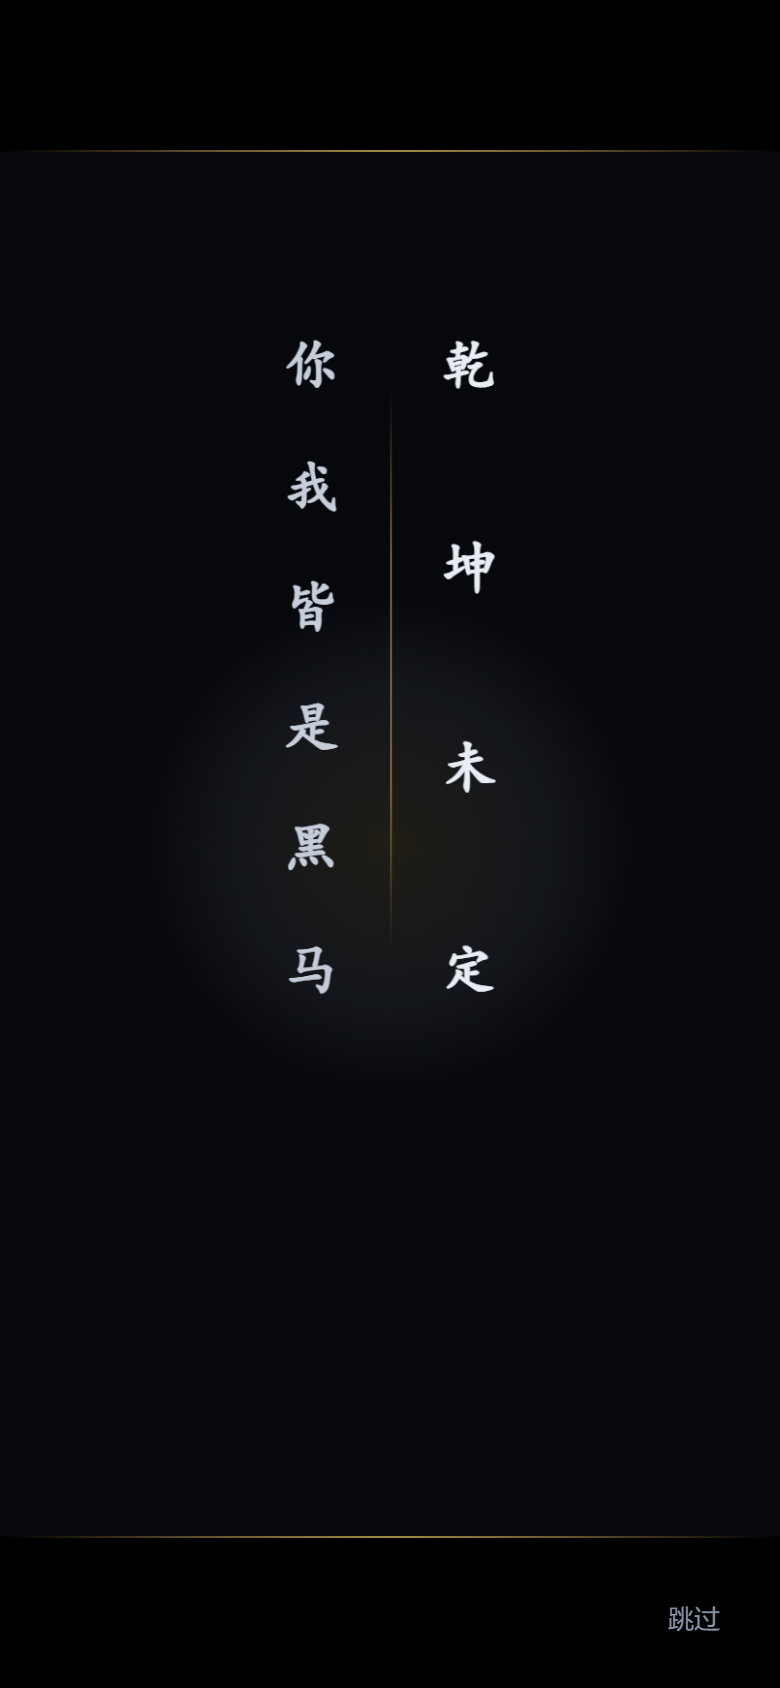
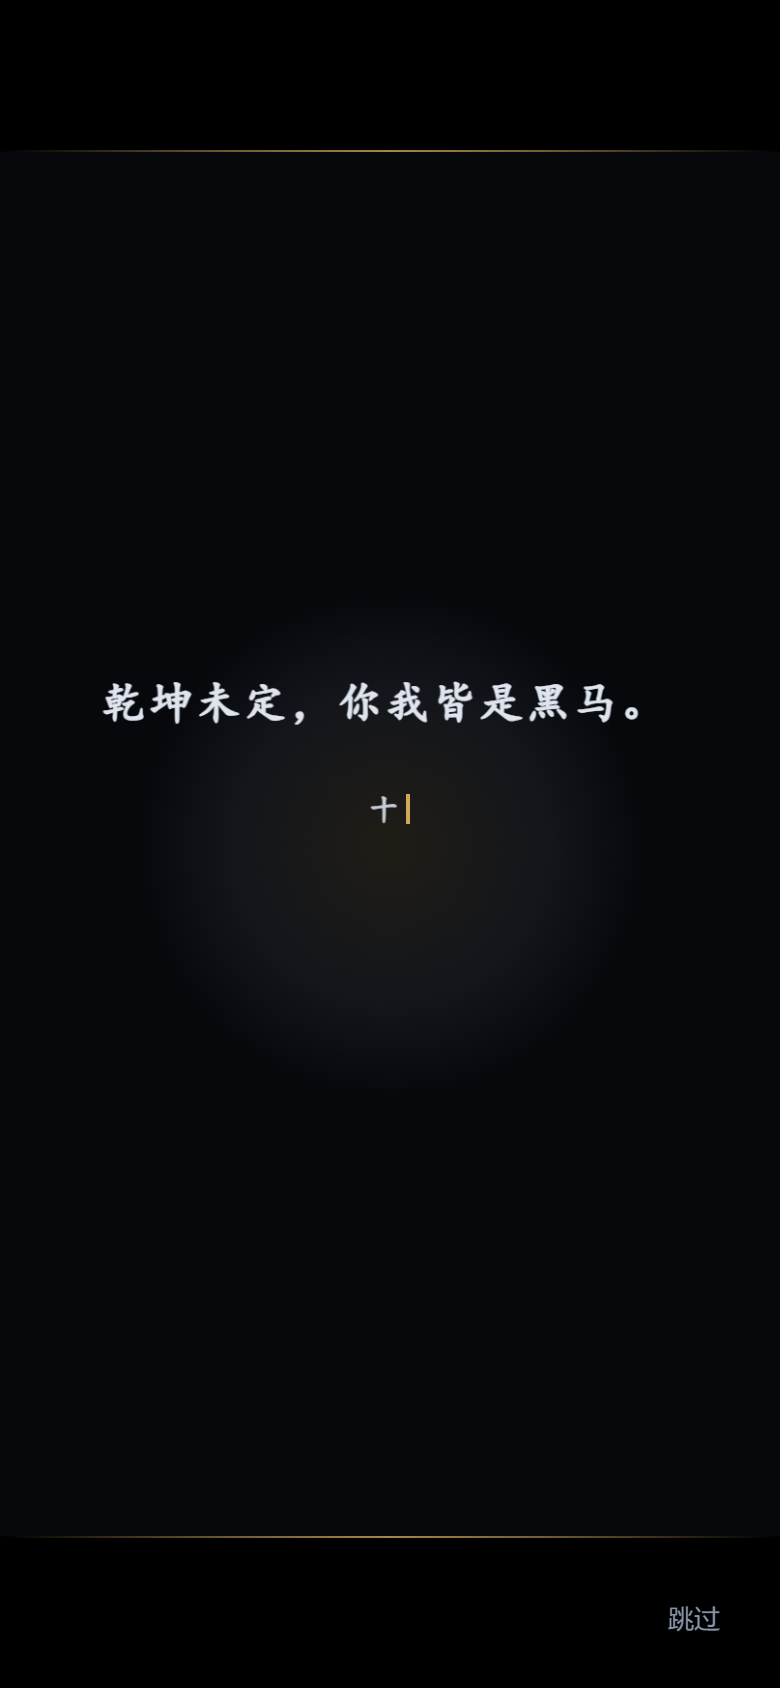
开场动画 V10：第二幕改打字机 + 实时倒计时——「乾坤未定，你我皆是黑马。」「十年磨剑，今朝试锋芒。」逐字打出（金色光标跟随），等宽数字实时倒计时（config.json fillPhase 单一事实源，250ms 刷新，开闸前/每日窗口/已开启三态感知）；铭言层挂舞台全屏居中不折行；skip/hide 统一清理定时器；E2E ≤14s（47/47）

diff --git a/index.html b/index.html
@@ -319,17 +319,24 @@ body.xj-lock{overflow:hidden}
 .xj-lb.b{bottom:0;transform-origin:50% 100%}
 .xj-lb.b::after{top:0}
 .xj-head{position:relative;display:flex;flex-direction:column;align-items:center;width:100%}
-/* 序章长句：逐行浮现（回忆向） */
-.xj-pro{position:absolute;inset:-20px 0;display:flex;flex-direction:column;align-items:center;justify-content:center;gap:clamp(13px,3.2vh,22px);pointer-events:none}
-.xj-pro p{margin:0;font-family:'Kaiti SC','STKaiti','KaiTi','Songti SC','SimSun',serif;font-size:clamp(15px,4vw,21px);font-weight:500;letter-spacing:.15em;margin-right:-.15em;color:#a7b2c3;opacity:0;transform:translateY(10px);will-change:transform,opacity}
+/* 序章长句：逐行浮现（回忆向）——挂舞台层，绝对居中于全屏 */
+.xj-pro{position:absolute;inset:0;display:flex;flex-direction:column;align-items:center;justify-content:center;gap:clamp(13px,3.2vh,22px);padding:10vh 24px;pointer-events:none}
+.xj-pro p{text-align:center;margin:0;font-family:'Kaiti SC','STKaiti','KaiTi','Songti SC','SimSun',serif;font-size:clamp(15px,4vw,21px);font-weight:500;letter-spacing:.12em;margin-right:-.12em;color:#a7b2c3;opacity:0;transform:translateY(10px);will-change:transform,opacity}
 .xj-pro p.em{color:#dfe5ee}
-.xj-motto{position:absolute;inset:-20px 0;display:flex;flex-direction:row-reverse;align-items:center;justify-content:center;gap:clamp(24px,6.5vw,44px);pointer-events:none}
-/* 对联式：两列等高、字距 space-between 均匀分布，中缝金线分隔 */
-.xj-m1,.xj-m2{display:flex;flex-direction:column;align-items:center;justify-content:space-between;height:min(46vh,340px);font-family:'Kaiti SC','STKaiti','KaiTi','Songti SC','SimSun',serif;font-weight:600}
-.xj-m1{font-size:clamp(26px,7vw,40px);color:#e8edf4}
-.xj-m2{font-size:clamp(26px,7vw,40px);color:#c6cedb}
-.xj-m1 span,.xj-m2 span{display:block;opacity:0;transform:translateY(14px);will-change:transform,opacity}
-.xj-msep{width:1px;height:min(38vh,280px);background:linear-gradient(180deg,transparent,rgba(207,169,90,.55) 30%,rgba(207,169,90,.55) 70%,transparent);opacity:0;will-change:opacity}
+.xj-motto{position:absolute;inset:0;display:flex;flex-direction:column;align-items:center;justify-content:center;gap:clamp(15px,3.4vh,26px);padding:10vh 24px;pointer-events:none}
+/* 打字机 + 实时倒计时（居中一栏式，替换原对联） */
+.xj-tw{font-family:'Kaiti SC','STKaiti','KaiTi','Songti SC','SimSun',serif;font-weight:600;color:#dfe5ee;min-height:1.45em;display:flex;align-items:center;justify-content:center;text-align:center}
+.xj-tw1{font-size:clamp(20px,5.6vw,34px);letter-spacing:.08em}
+.xj-tw2{font-size:clamp(14px,3.8vw,20px);letter-spacing:.14em;color:#c6cedb}
+.xj-tw::after{content:'';display:inline-block;width:2px;height:1.02em;background:var(--xj-gold);margin-left:.14em;opacity:0}
+.xj-tw.on::after{opacity:1;animation:xj-blink 1s steps(1) infinite}
+.xj-tw.done::after{animation:xj-blink .7s steps(1) 3 forwards}
+@keyframes xj-blink{0%,55%{opacity:1}56%,100%{opacity:0}}
+.xj-cd{display:flex;flex-direction:column;align-items:center;gap:clamp(8px,1.6vh,12px);opacity:0;transform:translateY(10px);will-change:transform,opacity}
+.xj-cd-cap{font-size:clamp(11px,2.9vw,14px);letter-spacing:.5em;margin-right:-.5em;color:var(--xj-mute)}
+.xj-cd-nums{display:flex;align-items:baseline;gap:clamp(4px,1.2vw,8px)}
+.xj-cd-nums b{font-family:'SF Mono','Menlo','Consolas','Courier New',monospace;font-variant-numeric:tabular-nums;font-size:clamp(26px,7vw,44px);font-weight:700;color:#eef1f6;letter-spacing:.02em}
+.xj-cd-nums i{font-style:normal;font-size:clamp(11px,2.8vw,14px);color:var(--xj-gold);letter-spacing:.1em}
 .xj-eyebrow{font-size:clamp(10px,2.6vw,13px);letter-spacing:.52em;margin-right:-.52em;color:var(--xj-mute);opacity:0;will-change:transform,opacity;margin-bottom:14px}
 .xj-lockup{position:relative;display:flex;flex-direction:column;align-items:center;padding:0 20px;max-width:100vw}
 .xj-title{position:relative;display:flex;justify-content:center;font-family:'Songti SC','STSong','STZhongsong','SimSun',serif;font-size:clamp(30px,8.5vw,64px);font-weight:900;line-height:1.22;letter-spacing:.14em;margin:0;opacity:0;will-change:transform,opacity}
@@ -360,19 +367,22 @@ body.xj-lock{overflow:hidden}
     <div class="xj-glow"></div>
     <div class="xj-lb t" aria-hidden="true"></div>
     <div class="xj-lb b" aria-hidden="true"></div>
+    <div class="xj-pro" aria-hidden="true">
+      <p>三年晨读，书声掠过四季的窗</p>
+      <p>千百道题，笔尖写满深夜的灯</p>
+      <p>那些熬过的夜、背过的书、流过的汗</p>
+      <p class="em">都将成为你笔下的从容</p>
+    </div>
+    <div class="xj-motto" aria-hidden="true">
+      <div class="xj-tw xj-tw1" data-text="乾坤未定，你我皆是黑马。"></div>
+      <div class="xj-tw xj-tw2" data-text="十年磨剑，今朝试锋芒。"></div>
+      <div class="xj-cd">
+        <div class="xj-cd-cap" id="xjCdCap">距 报名通道开启</div>
+        <div class="xj-cd-nums" id="xjCd"><b>--</b><i>天</i><b>--</b><i>时</i><b>--</b><i>分</i><b>--</b><i>秒</i></div>
+      </div>
+    </div>
     <div class="xj-lockup">
       <div class="xj-head">
-        <div class="xj-pro" aria-hidden="true">
-          <p>三年晨读，书声掠过四季的窗</p>
-          <p>千百道题，笔尖写满深夜的灯</p>
-          <p>那些熬过的夜、背过的书、流过的汗</p>
-          <p class="em">都将成为你笔下的从容</p>
-        </div>
-        <div class="xj-motto" aria-hidden="true">
-          <div class="xj-m1"><span>乾</span><span>坤</span><span>未</span><span>定</span></div>
-          <div class="xj-msep"></div>
-          <div class="xj-m2"><span>你</span><span>我</span><span>皆</span><span>是</span><span>黑</span><span>马</span></div>
-        </div>
         <div class="xj-eyebrow">二〇二七年 · 春季 / 夏季高考</div>
         <h1 class="xj-title" aria-label="山东高考报名助手"><span aria-hidden="true">山东高考报名助手</span></h1>
         <div class="xj-rule"><i aria-hidden="true"></i></div>
@@ -396,19 +406,79 @@ body.xj-lock{overflow:hidden}
   var glow = q('.xj-glow'), title = q('.xj-title'), rule = q('.xj-rule'), orn = q('.xj-rule i'),
       sub = q('.xj-sub'), cta = q('.xj-cta'), note = q('.xj-note'), skip = q('.xj-skip'),
       enter = q('#xjEnter'), replay = q('.xj-replay'), eyebrow = q('.xj-eyebrow'),
-      motto = q('.xj-motto'), msep = q('.xj-msep'), pro = q('.xj-pro'), lbT = q('.xj-lb.t'), lbB = q('.xj-lb.b');
+      motto = q('.xj-motto'), tw1 = q('.xj-tw1'), tw2 = q('.xj-tw2'),
+      cd = q('.xj-cd'), cdCap = q('#xjCdCap'), cdNums = q('#xjCd'),
+      pro = q('.xj-pro'), lbT = q('.xj-lb.t'), lbB = q('.xj-lb.b');
   var KEY = 'xj-splash-seen';
   var reduce = matchMedia('(prefers-reduced-motion: reduce)').matches;
   var E1 = 'cubic-bezier(.16,1,.3,1)';
+  var timers = [];        /* typewriter / countdown 句柄，skip 与 hide 时统一清理 */
+  var flushers = [];      /* skip 时立即补全文本 */
+  /* 目标时刻：config.json 单一事实源（fillPhase.start），失败回退内置值 */
+  var GATE = Date.parse('2026-10-24T09:00:00+08:00');
+  var GATE_END = Date.parse('2026-10-30T18:00:00+08:00');
+  try {
+    fetch('config.json').then(function (r) { return r.ok ? r.json() : null; }).then(function (c) {
+      if (c && c.fillPhase && c.fillPhase.start) {
+        var t = Date.parse(c.fillPhase.start);
+        if (!isNaN(t)) GATE = t;
+        if (c.fillPhase.end) { var e = Date.parse(c.fillPhase.end); if (!isNaN(e)) GATE_END = e; }
+      }
+    }).catch(function () {});
+  } catch (e) {}
   var anims = [];
 
   function lock(on) { document.body.classList[on ? 'add' : 'remove']('xj-lock'); }
   function a(el, kf, o) { var x = el.animate(kf, Object.assign({ fill: 'both' }, o)); anims.push(x); return x; }
+  function clearTimers() { timers.forEach(function (t) { clearTimeout(t); clearInterval(t); }); timers = []; }
+  /* 打字机：delay 后逐字显示 data-text，金色光标跟随，打完闪三下隐去 */
+  function type(el, delay, speed) {
+    var text = el.getAttribute('data-text') || '';
+    var t = setTimeout(function () {
+      el.classList.add('on');
+      var i = 0;
+      var iv = setInterval(function () {
+        i++;
+        el.textContent = text.slice(0, i);
+        if (i >= text.length) { clearInterval(iv); el.classList.add('done'); }
+      }, speed);
+      timers.push(iv);
+    }, delay);
+    timers.push(t);
+    flushers.push(function () { clearTimeout(t); el.textContent = text; el.classList.add('on', 'done'); });
+  }
+  /* 实时倒计时：每 250ms 刷新（秒级准确），区间感知（开闸前/每日窗口/已开启） */
+  function startCountdown() {
+    function tick() {
+      var now = Date.now();
+      var t = GATE, cap;
+      if (now < GATE) cap = '距 报名通道开启';
+      else if (now > GATE_END) { cap = '报名已截止 · 以官网公告为准'; t = null; }
+      else {
+        var d = new Date(now);
+        var nine = new Date(d); nine.setHours(9, 0, 0, 0);
+        var six = new Date(d); six.setHours(18, 0, 0, 0);
+        if (now < nine) { t = nine.getTime(); cap = '距 今日 09:00 开放'; }
+        else if (now <= six) { cap = '报名通道开启中 · 每天 9:00–18:00'; t = null; }
+        else { var tom = new Date(d); tom.setDate(tom.getDate() + 1); tom.setHours(9, 0, 0, 0); t = tom.getTime(); cap = '距 明日 09:00 开放'; }
+      }
+      cdCap.textContent = cap;
+      var parts = window.SdzkCore && t !== null
+        ? SdzkCore.countdownParts(t, now)
+        : { d: 0, h: 0, m: 0, s: 0, pad: function () { return ['00', '00', '00', '00']; } };
+      var p = parts.pad();
+      var bs = cdNums.querySelectorAll('b');
+      ['天', '时', '分', '秒'].forEach(function (u, i) { bs[i].textContent = p[i]; });
+    }
+    tick();
+    var iv = setInterval(tick, 250);
+    timers.push(iv);
+  }
   function markSeen() { try { sessionStorage.setItem(KEY, '1'); } catch (e) {} }
   function seen() { try { return sessionStorage.getItem(KEY) === '1'; } catch (e) { return false; } }
 
   function hide(instant) {
-    markSeen(); lock(false);
+    markSeen(); lock(false); clearTimers();
     if (instant) {
       splash.style.transition = 'none';
       splash.classList.add('off');
@@ -428,8 +498,9 @@ body.xj-lock{overflow:hidden}
   }
   function play() {
     anims.forEach(function (x) { try { x.cancel(); } catch (e) {} }); anims = [];
+    clearTimers(); flushers = [];
+    [tw1, tw2].forEach(function (el) { el.textContent = ''; el.classList.remove('on', 'done'); });
     skip.style.display = '';
-    var chars = motto ? [].slice.call(motto.querySelectorAll('span')) : [];
     if (reduce) {
       [glow, eyebrow, title, sub, cta, note].forEach(function (el) { a(el, [{ opacity: 0 }, { opacity: 1 }], { duration: 400 }); });
       a(rule, [{ opacity: 1, transform: 'scaleX(1)' }], { duration: 1 });
@@ -440,10 +511,10 @@ body.xj-lock{overflow:hidden}
       skip.style.display = 'none'; return;
     }
     motto.style.display = '';
-    /* V9 三幕序章（有限动画总时长约 11s，全程仅 transform/opacity 合成器动画）：
-       第一幕 序章长句逐行浮现(0.6s 起，行距 750ms) → 整段退场(4.7s)
-       第二幕 对联逐字(5.6s 起) → 金缝(6.8s) → 退场(8.3s)
-       第三幕 黑边收开(8.5s) → eyebrow/主标题(9.0s 起) → 饰线/署名 → CTA → 底注 */
+    /* V10 三幕序章 · 打字机 + 实时倒计时（有限动画约 13.5s + 倒计时实时走秒，全程仅 transform/opacity 合成器动画）：
+       第一幕 序章长句逐行(0.6s 起) → 退场(4.7s)
+       第二幕 打字机两行(5.7s / 7.4s 起，光标跟随) → 实时倒计时入场(8.8s) → 整栏退场(10.4s)
+       第三幕 黑边收开(10.6s) → eyebrow/主标题(11.4s 起) → 饰线/署名 → CTA → 底注 */
     a(glow, [{ opacity: 0 }, { opacity: 1 }], { duration: 1800, easing: 'ease-out' });
     a(glow, [{ transform: 'scale(1)' }, { transform: 'scale(1.04)' }, { transform: 'scale(1)' }],
       { duration: 6000, delay: 1800, iterations: Infinity, easing: 'ease-in-out' });
@@ -459,38 +530,43 @@ body.xj-lock{overflow:hidden}
       { opacity: 1, transform: 'scale(1)' },
       { opacity: 0, transform: 'scale(1.02)' }
     ], { duration: 700, delay: 4700, easing: 'cubic-bezier(.4,0,.2,1)', fill: 'both' });
-    /* 第二幕：对联逐字 + 金缝 */
-    chars.forEach(function (sp, i) {
-      var lineDelay = i < 4 ? 5600 + i * 110 : 6500 + (i - 4) * 100;
-      a(sp, [
-        { opacity: 0, transform: 'translateY(14px)' },
-        { opacity: 1, transform: 'translateY(0)' }
-      ], { duration: 700, delay: lineDelay, easing: E1, fill: 'both' });
-    });
-    a(msep, [{ opacity: 0 }, { opacity: 1 }], { duration: 700, delay: 6800, easing: 'ease-out', fill: 'both' });
+    /* 第二幕：打字机两行 + 实时倒计时 */
+    type(tw1, 5700, 120);
+    type(tw2, 7400, 120);
+    a(cd, [
+      { opacity: 0, transform: 'translateY(10px)' },
+      { opacity: 1, transform: 'translateY(0)' }
+    ], { duration: 700, delay: 8800, easing: E1, fill: 'both' });
+    startCountdown();
     a(motto, [
       { opacity: 1, transform: 'scale(1)' },
       { opacity: 0, transform: 'scale(1.035)' }
-    ], { duration: 700, delay: 8300, easing: 'cubic-bezier(.4,0,.2,1)', fill: 'both' });
+    ], { duration: 800, delay: 10400, easing: 'cubic-bezier(.4,0,.2,1)', fill: 'both' });
     /* 第三幕：黑边收开 + 标题锁定画面 */
-    a(lbT, [{ transform: 'scaleY(1)' }, { transform: 'scaleY(0)' }], { duration: 900, delay: 8500, easing: E1, fill: 'both' });
-    a(lbB, [{ transform: 'scaleY(1)' }, { transform: 'scaleY(0)' }], { duration: 900, delay: 8500, easing: E1, fill: 'both' });
-    a(eyebrow, [{ opacity: 0, transform: 'translateY(8px)' }, { opacity: 1, transform: 'translateY(0)' }], { duration: 600, delay: 9000, easing: E1 });
+    a(lbT, [{ transform: 'scaleY(1)' }, { transform: 'scaleY(0)' }], { duration: 900, delay: 10600, easing: E1, fill: 'both' });
+    a(lbB, [{ transform: 'scaleY(1)' }, { transform: 'scaleY(0)' }], { duration: 900, delay: 10600, easing: E1, fill: 'both' });
+    a(eyebrow, [{ opacity: 0, transform: 'translateY(8px)' }, { opacity: 1, transform: 'translateY(0)' }], { duration: 600, delay: 11400, easing: E1 });
     var last = a(title, [
       { opacity: 0, transform: 'translateY(12px) scale(.985)' },
       { opacity: 1, transform: 'translateY(0) scale(1)' }
-    ], { duration: 750, delay: 9200, easing: E1 });
-    a(rule, [{ opacity: 0, transform: 'scaleX(0)' }, { opacity: 1, transform: 'scaleX(1)' }], { duration: 600, delay: 9600, easing: E1 });
-    a(orn, [{ opacity: 0 }, { opacity: 1 }], { duration: 400, delay: 9950, easing: 'ease-out' });
-    a(sub, [{ opacity: 0, transform: 'translateY(6px)' }, { opacity: 1, transform: 'translateY(0)' }], { duration: 600, delay: 9800, easing: E1 });
-    a(cta, [{ opacity: 0, transform: 'translateY(10px)' }, { opacity: 1, transform: 'translateY(0)' }], { duration: 650, delay: 10100, easing: E1 });
+    ], { duration: 750, delay: 11600, easing: E1 });
+    a(rule, [{ opacity: 0, transform: 'scaleX(0)' }, { opacity: 1, transform: 'scaleX(1)' }], { duration: 600, delay: 12000, easing: E1 });
+    a(orn, [{ opacity: 0 }, { opacity: 1 }], { duration: 400, delay: 12350, easing: 'ease-out' });
+    a(sub, [{ opacity: 0, transform: 'translateY(6px)' }, { opacity: 1, transform: 'translateY(0)' }], { duration: 600, delay: 12200, easing: E1 });
+    a(cta, [{ opacity: 0, transform: 'translateY(10px)' }, { opacity: 1, transform: 'translateY(0)' }], { duration: 650, delay: 12500, easing: E1 });
     a(cta, [{ transform: 'scale(1)' }, { transform: 'scale(1.012)' }, { transform: 'scale(1)' }],
-      { duration: 5000, delay: 10800, iterations: Infinity, easing: 'ease-in-out' });
-    a(note, [{ opacity: 0 }, { opacity: 1 }], { duration: 550, delay: 10300, easing: 'ease-out' });
+      { duration: 5000, delay: 13200, iterations: Infinity, easing: 'ease-in-out' });
+    a(note, [{ opacity: 0 }, { opacity: 1 }], { duration: 550, delay: 12700, easing: 'ease-out' });
     last.finished.then(function () { skip.style.display = 'none'; }).catch(function () {});
   }
 
-  skip.addEventListener('click', function () { anims.forEach(function (x) { try { x.finish(); } catch (e) {} }); skip.style.display = 'none'; markSeen(); });
+  skip.addEventListener('click', function () {
+    clearTimers();
+    flushers.forEach(function (f) { f(); }); flushers = [];
+    anims.forEach(function (x) { try { x.finish(); } catch (e) {} });
+    [tw1, tw2].forEach(function (el) { el.classList.add('on', 'done'); });
+    skip.style.display = 'none'; markSeen();
+  });
   replay.addEventListener('click', play);
   enter.addEventListener('click', function () { hide(false); });
 

diff --git a/test/e2e.js b/test/e2e.js
@@ -55,20 +55,22 @@ function computeCheck(first17) {
       if (!document.querySelector('.xj-btn') || document.querySelector('.xj-btn').textContent.indexOf('开始报名') < 0) throw new Error('CTA 按钮缺失');
     });
   });
-  await t('节奏合规：入场有限动画总时长 ≤ 11.5s（读 WAAPI 时序实测，呼吸循环除外）', () => {
+  await t('节奏合规：入场有限动画总时长 ≤ 14s（读 WAAPI 时序实测，呼吸循环除外）', () => {
     return page.evaluate(() => {
       const anims = document.getElementById('xjSplash').getAnimations({ subtree: true })
         .filter(x => x.effect.getTiming().iterations !== Infinity);
       if (!anims.length) throw new Error('未检测到开场动画');
       const maxEnd = Math.max(...anims.map(x => x.effect.getTiming().delay + (typeof x.effect.getTiming().duration === 'number' ? x.effect.getTiming().duration : 0)));
-      if (maxEnd > 11500) throw new Error('总时长 ' + Math.round(maxEnd) + 'ms 超出 11.5s');
+      if (maxEnd > 14000) throw new Error('总时长 ' + Math.round(maxEnd) + 'ms 超出 14s');
     });
   });
   await t('文案权威且诚实：铭言「乾坤未定」、主标题为项目名、副标题为「小杰 · 技术支持」、底注含「非官方」，无「官方指定/授权」类违规字样', () => {
     return page.evaluate(() => {
       const s = document.getElementById('xjSplash');
-      if (s.textContent.indexOf('乾坤未定') < 0 || s.textContent.indexOf('黑马') < 0) throw new Error('铭言缺失');
+      if ((document.querySelector('.xj-tw1').getAttribute('data-text') || '').indexOf('乾坤未定') < 0) throw new Error('打字机主句缺失');
+      if (s.textContent.indexOf('黑马') < 0 && (document.querySelector('.xj-tw1').getAttribute('data-text') || '').indexOf('黑马') < 0) throw new Error('铭言缺失');
       if (s.textContent.indexOf('三年晨读') < 0 || s.textContent.indexOf('笔下的从容') < 0) throw new Error('序章长句缺失');
+      if (!document.getElementById('xjCd') || !document.getElementById('xjCdCap')) throw new Error('实时倒计时缺失');
       if (document.querySelector('.xj-title').getAttribute('aria-label').indexOf('山东高考报名助手') < 0) throw new Error('主标题缺少项目名');
       if (document.querySelector('.xj-sub').textContent.indexOf('小杰') < 0) throw new Error('副标题缺少技术支持方');
       if (document.querySelector('.xj-note').textContent.indexOf('非官方') < 0) throw new Error('底注缺少非官方声明');

diff --git a/test/perf-v3.js b/test/perf-v3.js
@@ -10,7 +10,7 @@ const BASE = 'http://127.0.0.1:8971';
   await p1.evaluate(() => {
     window.__frames = 0; window.__long = 0; window.__t0 = performance.now(); window.__last = 0;
     const loop = (t) => { window.__frames++; if (window.__last && t - window.__last > 32) window.__long++; window.__last = t;
-      if (performance.now() - window.__t0 < 12000) requestAnimationFrame(loop); };
+      if (performance.now() - window.__t0 < 14200) requestAnimationFrame(loop); };
     requestAnimationFrame(loop);
   });
   await p1.waitForTimeout(3400);
@@ -31,7 +31,7 @@ const BASE = 'http://127.0.0.1:8971';
   /* 第二轮：全新会话截图关键帧 */
   const p2 = await browser.newPage({ viewport: { width: 390, height: 844 }, deviceScaleFactor: 2 });
   await p2.goto(BASE + '/', { waitUntil: 'domcontentloaded' });
-  const shots = [[1600, 'v3-beams'], [3600, 'v3-crest-title'], [7000, 'v3-sheen'], [9300, 'v3-sub'], [11500, 'v3-cta']];
+  const shots = [[1800, 'v3-beams'], [3600, 'v3-crest-title'], [7000, 'v3-sheen'], [9600, 'v3-sub'], [13800, 'v3-cta']];
   let prev = 0;
   for (const [ms, name] of shots) {
     await p2.waitForTimeout(ms - prev); prev = ms;
